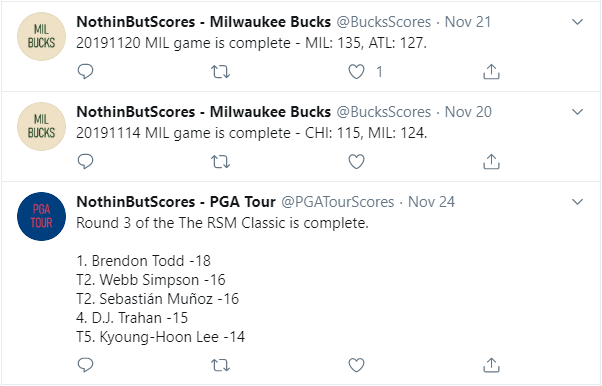
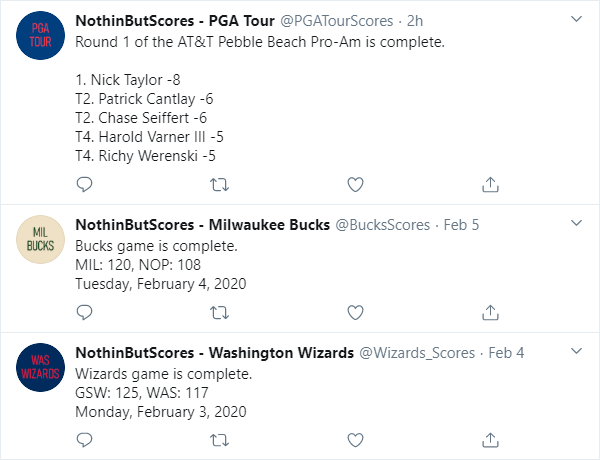
update feed image and fix some spacing

diff --git a/layouts/_default/baseof.html b/layouts/_default/baseof.html
@@ -5,9 +5,9 @@
         {{- partial "header.html" . -}}
         
         {{ if .IsHome }}
-        <main class="flex-1 sm:mx-4 md:mx-12 lg:mx-24 mt-4 sm:mt-16 bg-sports-icons">
+        <main class="flex-1 m-2 bg-sports-icons">
         {{ else }}
-        <main class="flex-1 sm:mx-4 md:mx-12 lg:mx-24 mt-4 sm:mt-16">
+        <main class="flex-1 m-2 md:m-6">
         {{ end }}
 
         {{- block "main" . }}{{- end }}
